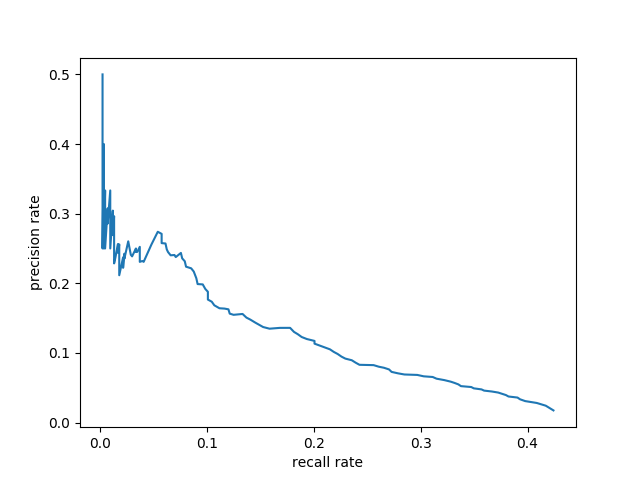
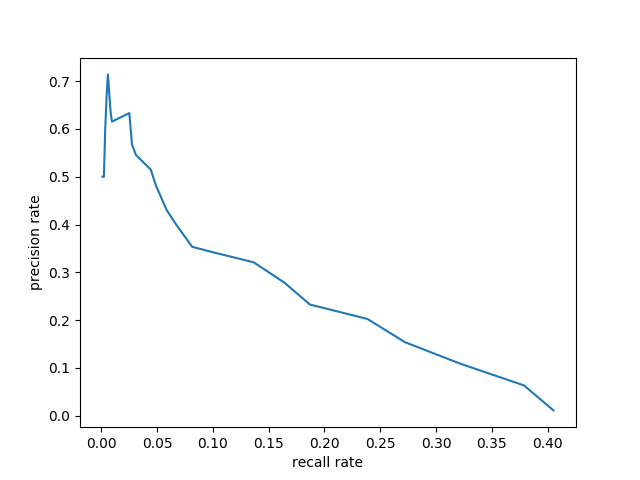
result

diff --git a/evaluation.py b/evaluation.py
@@ -6,7 +6,7 @@ matplotlib.use('Agg')
 import matplotlib.pyplot as plt
 import numpy as np
 import cv2
-from yolo.net.yolo_tiny_net import YoloTinyNet
+from yolo.net.yolo_net import YoloNet
 from yolo.dataset.text_dataset import TextDataSet
 from demo import *
 # in total we have 714 test images
@@ -41,20 +41,19 @@ dataset =  TextDataSetV2(common_parameters, dataset_parameters)
 classes_name = ['bare soil', 'dead tree']
 net_params = {'cell_size': 7, 'boxes_per_cell':2, 'weight_decay': 0.0005}
 batch_size = common_parameters['batch_size']
-net = YoloTinyNet(common_parameters, net_params, test=True)
+net = YoloNet(common_parameters, net_params, test=True)
 image = tf.placeholder(tf.float32, (None, 448, 448, 3))
 predicts = net.inference(image)
 sess = tf.Session()
-
+saver = tf.train.Saver(net.trainable_collection)
+ckpt = tf.train.get_checkpoint_state('models/train/backup_full_model')
+saver.restore(sess,ckpt.model_checkpoint_path)
 num_imgs = 714 // batch_size * batch_size
 predicted_boxes = np.zeros((num_imgs, net_params['cell_size'], net_params['cell_size'], \
     12), dtype=np.float32)
 ground_truth_boxes = []
 for i in range(714 // batch_size):
     images, labels, objects_num = dataset.batch()
-    saver = tf.train.Saver(net.trainable_collection)
-    ckpt = tf.train.get_checkpoint_state('models/train/')
-    saver.restore(sess,ckpt.model_checkpoint_path)
     np_predict = sess.run(predicts, feed_dict={image: images})
     assert np_predict.shape[-1] == 12
     predicted_boxes[i * batch_size:(i+1) * batch_size] = np_predict
@@ -101,7 +100,7 @@ def compute_precision_and_recall(predicted_boxes, ground_truth_boxes, p_threshol
     print('p_tp: {}\tr_tp: {}\tfn: {}\tfp: {}'.format(p_tp, r_tp, fn, fp))
     return precision, recall
 
-thres_grid = np.arange(1e-5, 0.2, 1e-3)
+thres_grid = np.arange(1e-5, 0.7, 1e-2)
 precision_list = []
 recall_list = []
 for p_threshold in thres_grid:

diff --git a/demo.py b/demo.py
@@ -2,7 +2,7 @@ import sys
 
 sys.path.append('./')
 
-from yolo.net.yolo_tiny_net import YoloTinyNet 
+from yolo.net.yolo_net import YoloNet 
 import tensorflow as tf 
 import cv2
 import numpy as np
@@ -92,7 +92,7 @@ if __name__ == "__main__":
                                     'batch_size':1}
     net_params = {'cell_size': 7, 'boxes_per_cell':2, 'weight_decay': 0.0005}
 
-    net = YoloTinyNet(common_params, net_params, test=True)
+    net = YoloNet(common_params, net_params, test=True)
 
     image = tf.placeholder(tf.float32, (1, 448, 448, 3))
     predicts = net.inference(image)
@@ -110,7 +110,7 @@ if __name__ == "__main__":
     np_img = np.reshape(np_img, (1, 448, 448, 3))
 
     saver = tf.train.Saver(net.trainable_collection)
-    ckpt = tf.train.get_checkpoint_state('models/train/')
+    ckpt = tf.train.get_checkpoint_state('models/train/backup_full_model')
     saver.restore(sess,ckpt.model_checkpoint_path)
 
     np_predict = sess.run(predicts, feed_dict={image: np_img})
